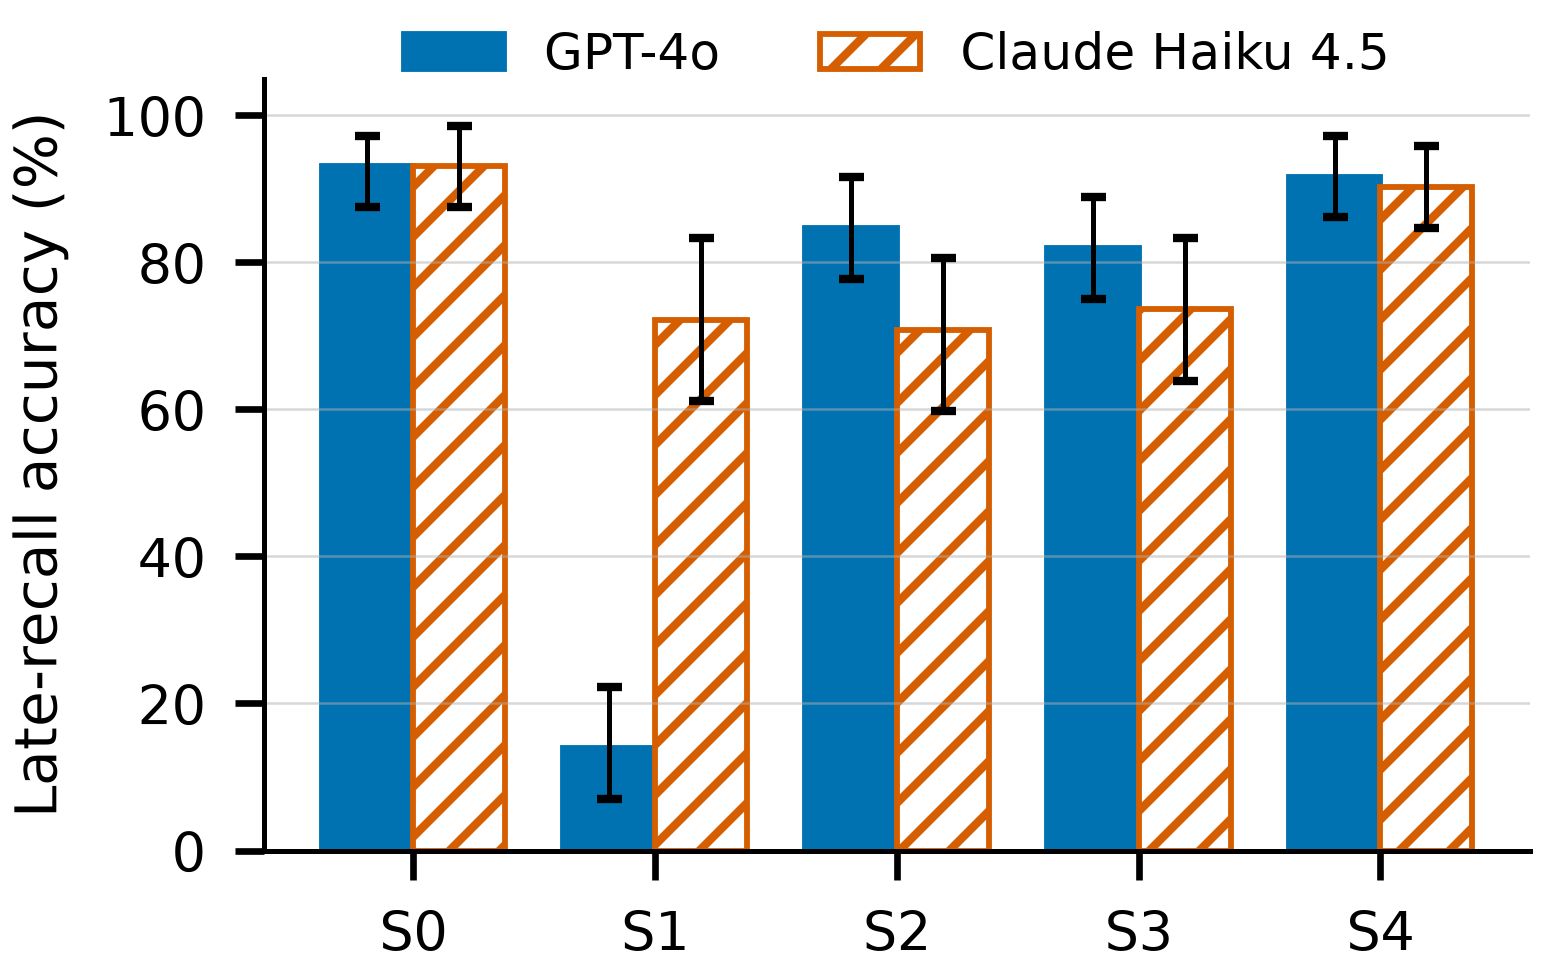
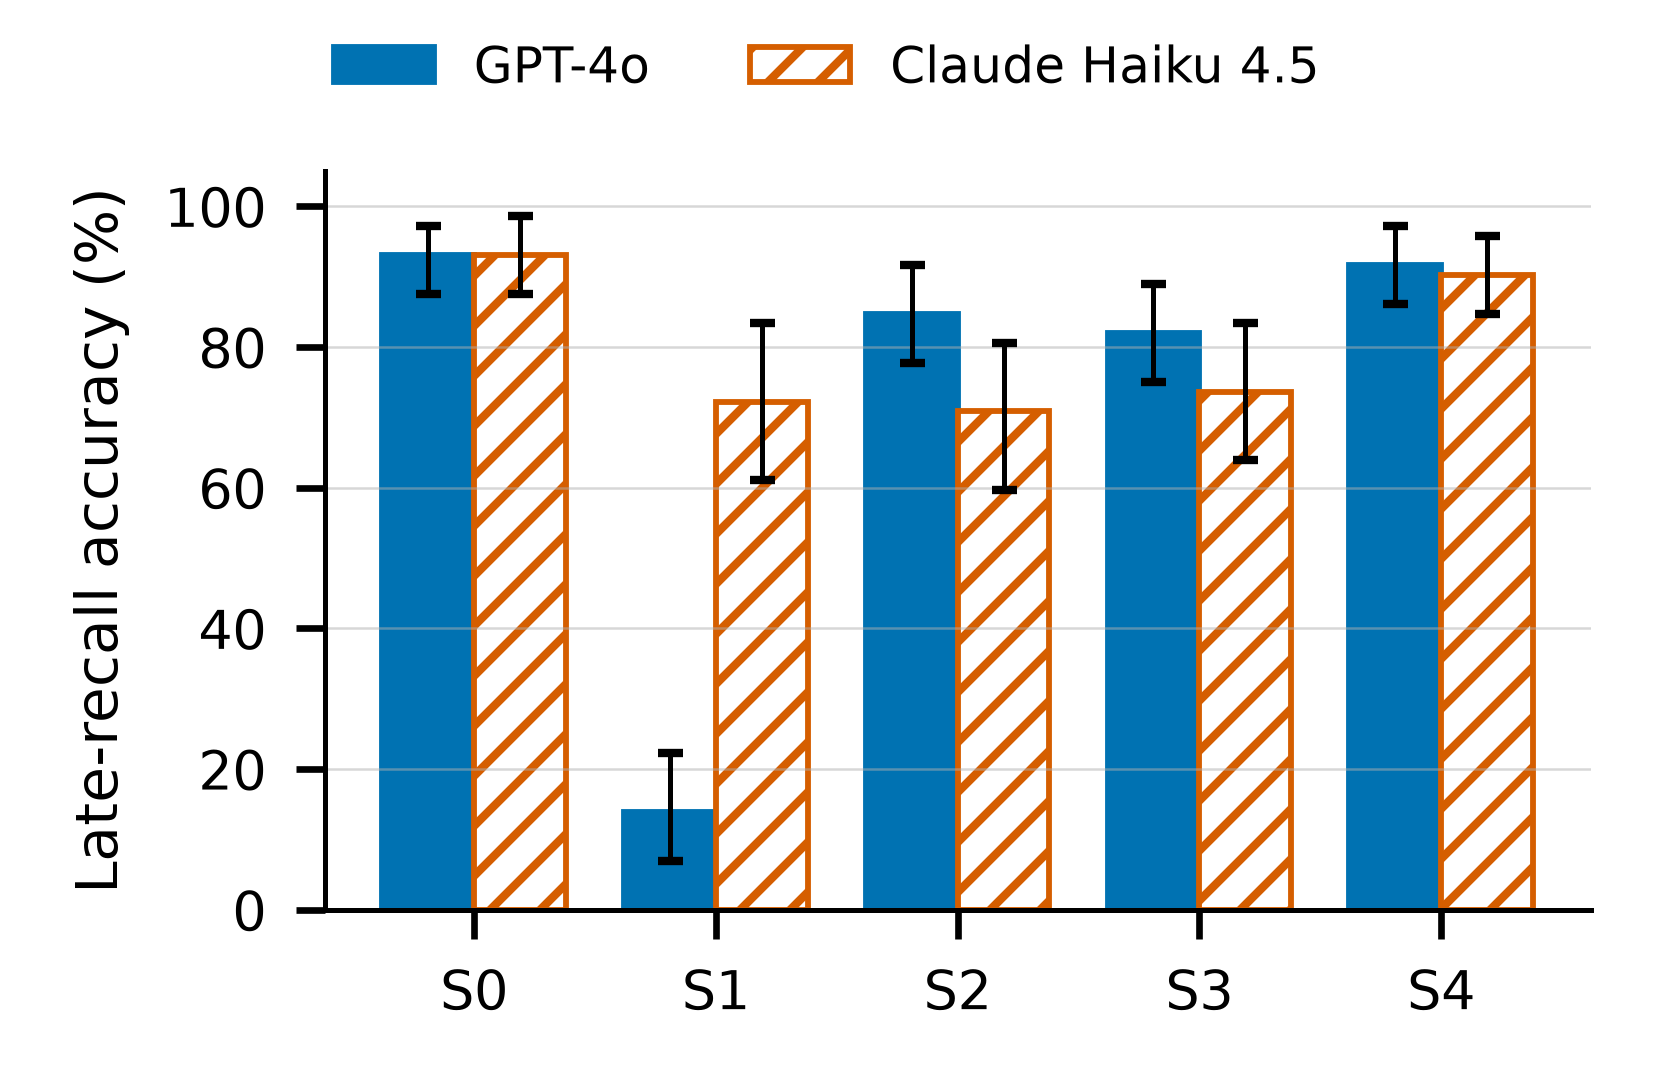
fix(review): exact figure widths, 6 pt minimum, Haiku saturation and sample notes (PR #36 M-1, M-2, N-1)
- M-1: save without bbox trimming so files are exactly 7.0/14.0 cm;
  legends kept inside the canvas; smallest text raised to 6 pt.
- M-2: explain both Haiku limits (1,568-px long side, 1,568 patches);
  3:1 saturates at the long-side limit; dotted line labelled as the
  visual-patch cap.
- N-1: Fig. 1 shows 28 of 49 grid images; portrait sizes bill the same
  as landscape (21/21) and are omitted.

Changed region(s): [[0.0, 0.0923, 0.9968, 0.9846], [0.1869, 0.0308, 0.9033, 0.0923]]

diff --git a/research/figures/make_figures.py b/research/figures/make_figures.py
@@ -33,8 +33,10 @@ plt.rcParams.update({
 
 
 def save(fig, name):
-    fig.savefig(OUT / f"{name}.pdf", bbox_inches="tight", pad_inches=0.02)
-    fig.savefig(OUT / f"{name}.png", dpi=600, bbox_inches="tight", pad_inches=0.02)
+    # No bbox trimming: the saved file is exactly the canvas width (7 cm half column, 14 cm full width), so it can be placed
+    # at 100% and the stated point sizes hold (PR #36 review M-1).
+    fig.savefig(OUT / f"{name}.pdf")
+    fig.savefig(OUT / f"{name}.png", dpi=600)
     plt.close(fig)
 
 
@@ -67,8 +69,8 @@ def fig1_rq1():
         ax.grid(axis="y", linewidth=0.3, alpha=0.5)
     axes[0].set_ylabel("Billed image tokens")
     axes[1].axhline(1568, color=C["grey"], linewidth=0.6, linestyle=":")
-    axes[1].text(0, 1600, "1,568-token cap", fontsize=5.5, color=C["grey"], va="bottom")
-    axes[0].text(4.6, 730, "1:1 = 4:3", fontsize=5.5, color=C["grey"], va="top")
+    axes[1].text(0, 1600, "1,568 visual-patch cap", fontsize=6, color=C["grey"], va="bottom")
+    axes[0].text(4.6, 730, "1:1 = 4:3", fontsize=6, color=C["grey"], va="top")
     axes[0].legend(title="Aspect ratio", title_fontsize=6, frameon=False, loc="upper left")
     fig.tight_layout(w_pad=1.2)
     save(fig, "fig1_rq1_billed_tokens")
@@ -93,7 +95,7 @@ def fig2_accuracy_tokens(rows):
             ax.errorbar(x, m * 100, yerr=[[m * 100 - lo * 100], [hi * 100 - m * 100]], fmt=markers[c], color=C[p],
                         markersize=3.5, elinewidth=0.6, capsize=1.5, mfc=C[p] if p == "gpt4o" else "white")
             dx, dy = LABEL_OFFSET.get((p, c), (4, -2))
-            ax.annotate(c, (x, m * 100), xytext=(dx, dy), textcoords="offset points", fontsize=5.5, color=C[p])
+            ax.annotate(c, (x, m * 100), xytext=(dx, dy), textcoords="offset points", fontsize=6, color=C[p])
     ax.set_xlabel("Mean input tokens per session (×1,000)")
     ax.set_ylabel("Session accuracy (%)")
     ax.set_ylim(30, 100)
@@ -125,8 +127,8 @@ def fig3_late_recall(rows):
     ax.set_ylabel("Late-recall accuracy (%)")
     ax.set_ylim(0, 105)
     ax.grid(axis="y", linewidth=0.3, alpha=0.5)
-    ax.legend(frameon=False, loc="upper center", ncol=2, bbox_to_anchor=(0.5, 1.12))
-    fig.tight_layout()
+    fig.legend(*ax.get_legend_handles_labels(), frameon=False, loc="upper center", ncol=2, bbox_to_anchor=(0.5, 1.0))
+    fig.tight_layout(rect=(0, 0, 1, 0.9))
     save(fig, "fig3_heldout_late_recall")
 
 
@@ -145,8 +147,8 @@ def fig4_cost(rows):
     axes[0].set_ylabel("Cost per session (US cents)")
     handles = [plt.Rectangle((0, 0), 1, 1, facecolor=C["grey"], edgecolor=C["grey"]),
                plt.Rectangle((0, 0), 1, 1, facecolor="white", edgecolor=C["grey"], hatch="////")]
-    fig.legend(handles, ["list price", "with prompt cache"], frameon=False, loc="upper center", ncol=2, bbox_to_anchor=(0.5, 1.06))
-    fig.tight_layout(w_pad=0.8)
+    fig.legend(handles, ["list price", "with prompt cache"], frameon=False, loc="upper center", ncol=2, bbox_to_anchor=(0.5, 1.0))
+    fig.tight_layout(w_pad=0.8, rect=(0, 0, 1, 0.9))
     save(fig, "fig4_heldout_cost_list_vs_cache")
 
 

diff --git a/research/figures/README.md b/research/figures/README.md
@@ -5,7 +5,8 @@
   - 그림 폭: 반단 7 cm, 전단 14 cm
   - 설명은 그림 아래에 국문·영문 병기
   - 영문은 sentence case
-- 그림 안 글자는 영문 7 pt(눈금 6.5 pt, 범례 6 pt)다. 반단 폭에서 읽히는 크기다.
+- **출력 파일 폭이 곧 지정 폭이다**(반단 7.0 cm, 전단 14.0 cm, PDF 크기로 확인). 여백을 자르지 않고 저장하므로 hwp에는 100% 크기로 넣는다. 확대·축소하면 아래 글자 크기와 실효 해상도가 달라진다.
+- 그림 안 글자는 영문 7 pt다. 눈금은 6.5 pt, 범례·주석·점 라벨은 6 pt이고, 이것이 최소 크기다.
 - 색: Okabe-Ito(색각 이상 친화). 흑백 인쇄에서도 구분되도록 채움·빗금·표식 모양을 함께 쓴다.
 - 출력: 벡터 PDF와 600 dpi PNG. hwp 양식에는 PNG를 넣는다.
 
@@ -27,7 +28,7 @@ python figures/make_figures.py    # matplotlib 3.11.1, numpy 2.5.1
 
 | 파일 | 폭 | 근거 데이터 |
 |---|---|---|
-| `fig1_rq1_billed_tokens` | 전단 14 cm | `results/rq1-sweep-001/rows.jsonl`(PNG 격자 49장) |
+| `fig1_rq1_billed_tokens` | 전단 14 cm | `results/rq1-sweep-001/rows.jsonl`. PNG 격자 49장 중 대표 비율 4종(1:1, 4:3, 16:9, 3:1) 28장을 표시한다. 세로 방향(3:4, 9:16, 1:3) 21장은 가로 방향과 두 공급자 모두 토큰이 같아(21/21) 생략했다 |
 | `fig2_heldout_accuracy_vs_tokens` | 반단 7 cm | `figures/data/heldout-sessions.json` |
 | `fig3_heldout_late_recall` | 반단 7 cm | 같음 |
 | `fig4_heldout_cost_list_vs_cache` | 반단 7 cm | 같음 |
@@ -35,13 +36,13 @@ python figures/make_figures.py    # matplotlib 3.11.1, numpy 2.5.1
 **그림 1.** 긴 변 길이와 종횡비에 따른 청구 이미지 토큰.
 - 왼쪽 GPT-4o(detail high), 오른쪽 Claude Haiku 4.5. 공급자 청구값의 실측이다.
 - GPT-4o는 타일 규칙 때문에 계단식으로 변하고, 1:1과 4:3은 같은 값이다.
-- Haiku는 1,568 토큰 상한 아래에서 넓이에 따라 늘고, 상한 이상에서는 일정하다.
+- Haiku는 넓이에 따라 늘다가 두 제한 중 하나에 걸리면 일정해진다: 긴 변 1,568 px, 시각 패치 1,568개. 1:1·4:3·16:9는 패치 상한(점선) 근처에서, 3:1은 긴 변 제한(1568×523 → 1,064패치)에서 포화한다.
 - Haiku 값은 이미지 1장 요청에서 측정했고, 회계식보다 3토큰 많다.
 
 **Fig. 1.** Billed image tokens by long side and aspect ratio.
 - Left: GPT-4o (detail high). Right: Claude Haiku 4.5. Values are measured from provider billing.
 - GPT-4o follows a step pattern from its tile rule, and 1:1 and 4:3 coincide.
-- Haiku grows with area below its 1,568-token cap and stays flat above it.
+- Haiku grows with area until one of two limits applies: a 1,568-px long side or 1,568 visual patches. 1:1, 4:3 and 16:9 saturate near the patch cap (dotted line); 3:1 saturates at the long-side limit (1568×523, 1,064 patches).
 - Haiku values were measured with one image per request and are 3 tokens above the formula.
 
 **그림 2.** held-out 24세션의 조건별 세션 평균 정확도와 세션당 평균 입력 토큰. 오차 막대는 세션 bootstrap 95% 구간이다(기술 통계).
